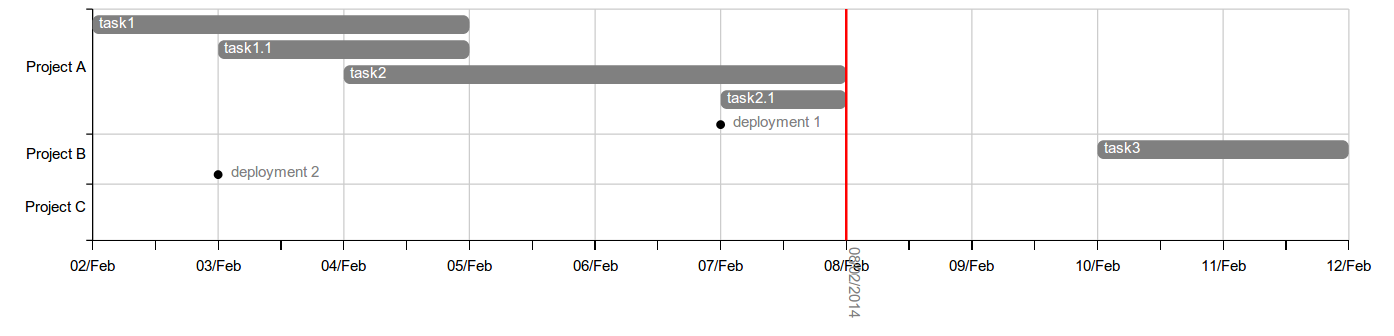
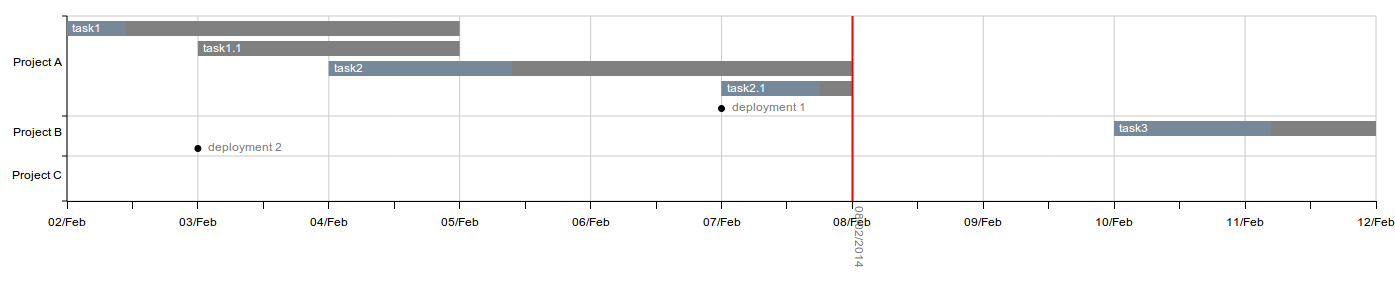
document changes to describe new progress task attribute

diff --git a/examples/example1.html b/examples/example1.html
@@ -13,11 +13,11 @@
 var categories = [ "Project A", "Project B", "Project C"]
 
 var tasks = [
-	{"id": "1","category":"Project A", "label":"task1","startDate":new Date(2014,1,2),"endDate":new Date(2014,1,5)},
-	{"id": "11","category":"Project A","label":"task1.1","startDate":new Date(2014,1,3),"endDate":new Date(2014,1,5)},
-	{"id": "2","category":"Project A","label":"task2","startDate":new Date(2014,1,4),"endDate":new Date(2014,1,8)},
-	{"id": "21","category":"Project A","label":"task2.1","startDate":new Date(2014,1,7),"endDate":new Date(2014,1,8)},
-	{"id": "3","category":"Project B","label":"task3","startDate":new Date(2014,1,10),"endDate":new Date(2014,1,12)}
+  {"id": "1","category":"Project A", "label":"task1","startDate":new Date(2014,1,2),"endDate":new Date(2014,1,5), "progress":0.15},
+  {"id": "11","category":"Project A","label":"task1.1","startDate":new Date(2014,1,3),"endDate":new Date(2014,1,5)},
+  {"id": "2","category":"Project A","label":"task2","startDate":new Date(2014,1,4),"endDate":new Date(2014,1,8), "progress":0.35},
+  {"id": "21","category":"Project A","label":"task2.1","startDate":new Date(2014,1,7),"endDate":new Date(2014,1,8), "progress":0.75},
+  {"id": "3","category":"Project B","label":"task3","startDate":new Date(2014,1,10),"endDate":new Date(2014,1,12), "progress":0.6}
 ];
 
 var milestones = [

diff --git a/gantt-chart-d3.css b/gantt-chart-d3.css
@@ -7,16 +7,13 @@
 	fill: grey;
 }
 
-.task-bar:hover {
-	fill: dark-grey;
-}
-
 .task-progress-bar {
-	fill: black;
+	fill: LightSlateGrey;
 }
 
 .task-bar:hover {
-	fill: dark;
+	fill: darkgray;
+	stroke: black;
 }
 
 .task-label {
